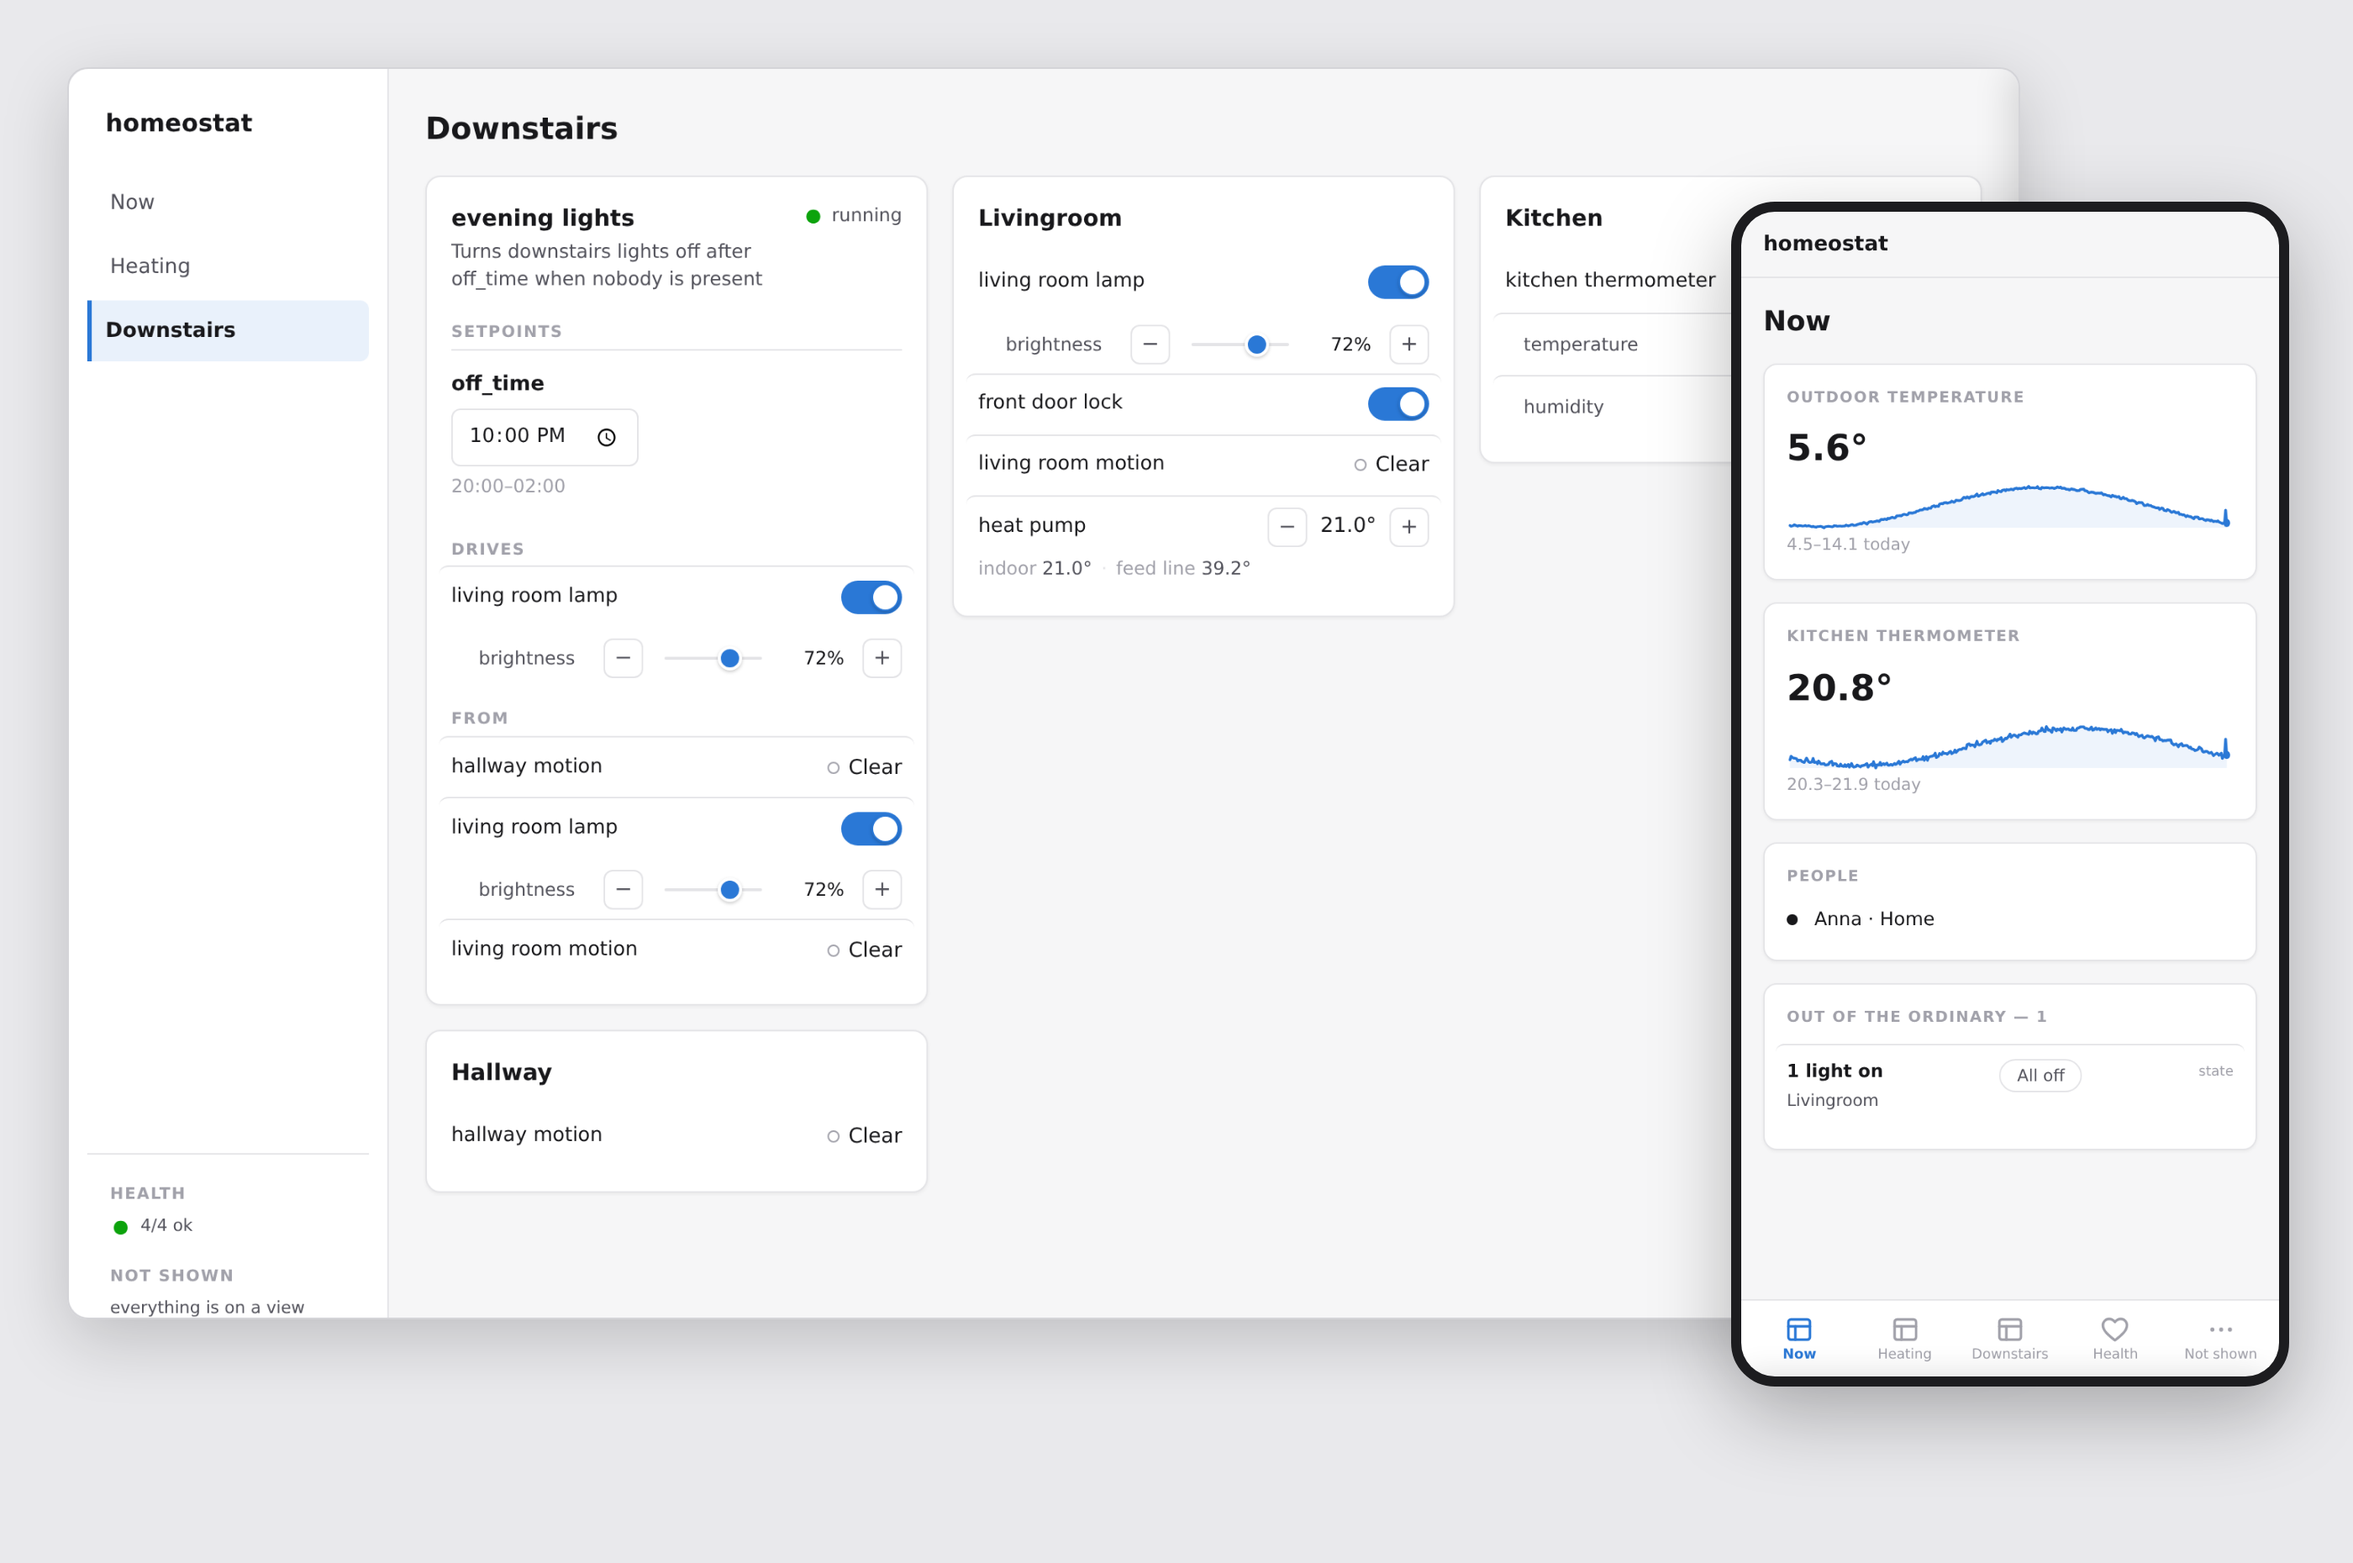
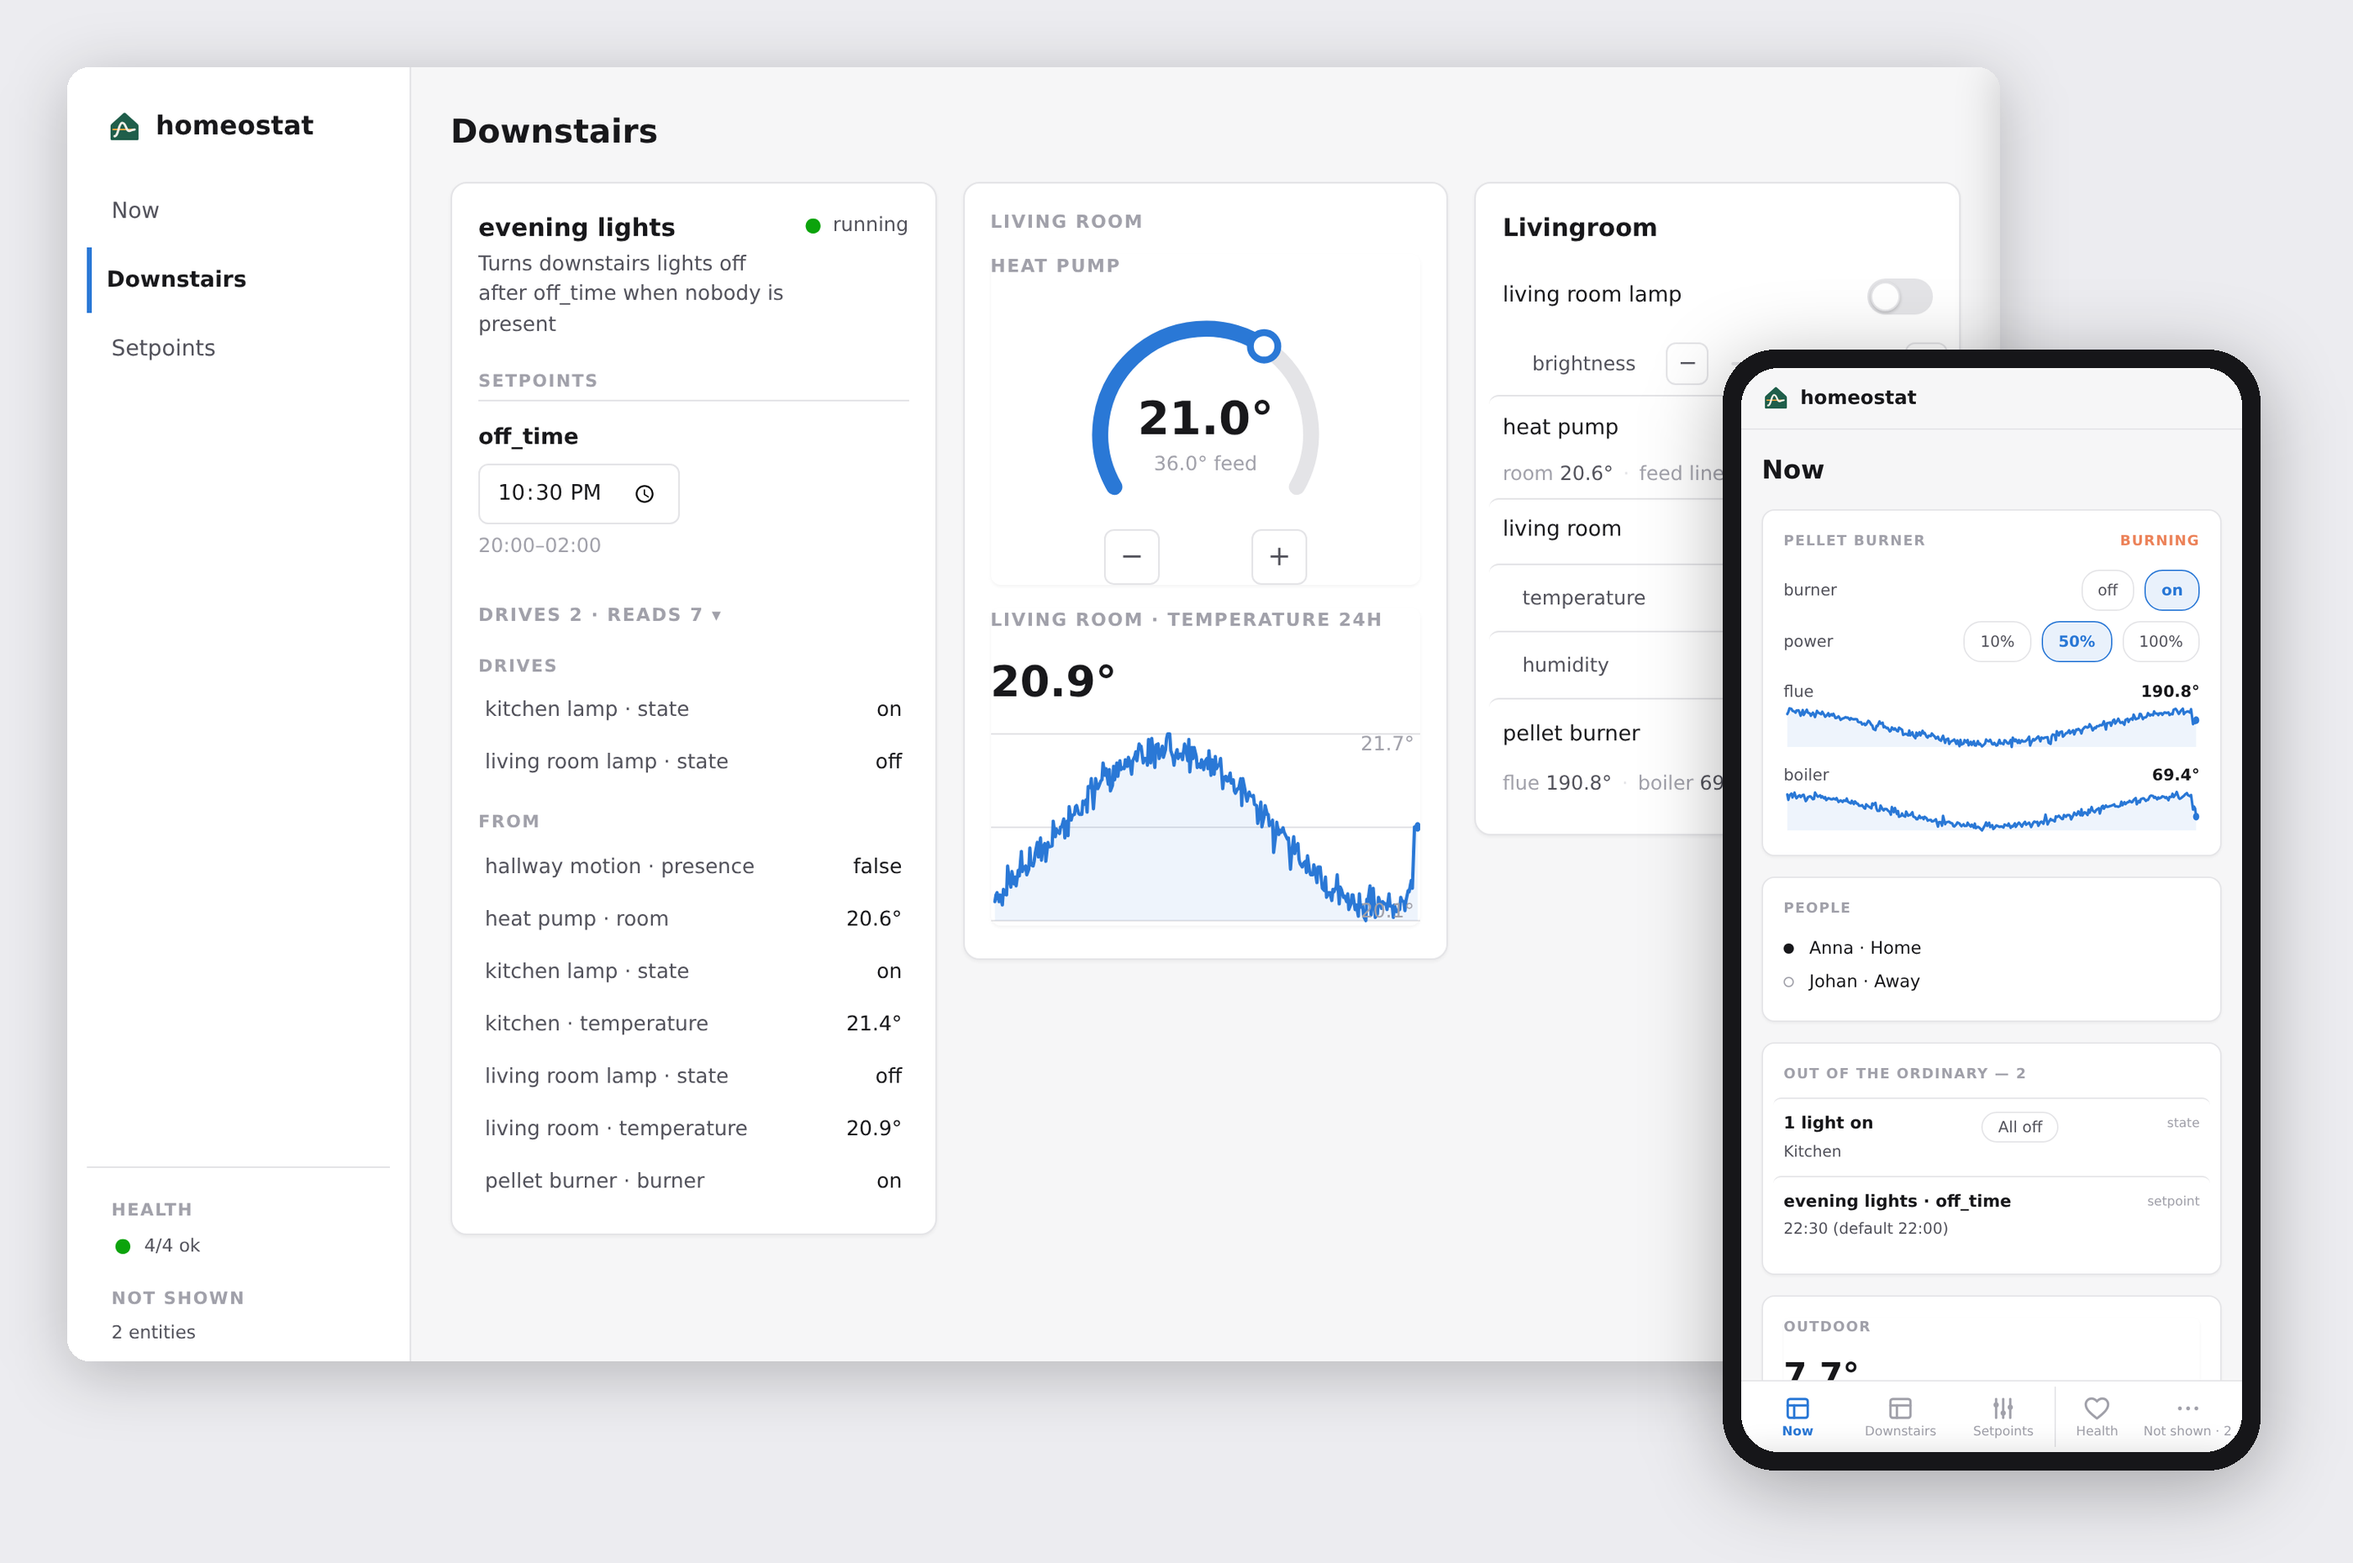
README: a screenshot of the dashboard as it is now
Taken from the real stack again — supervisor, recorder with a day of
seeded history, the dashboard unit — on a staged house that exercises
what the four follow-ups added: the mark in the rail and the phone's top
bar, a group card (a heat-pump dial with the room's trace under it), the
burner card, and the evening-lights unit card with its wiring opened out
one row per field.

The shot showed a bug, fixed here: a tile whose entity has more than one
reading built its label with `&middot;` and then upper-cased the whole
string, and `&MIDDOT;` is not an entity — it read literally on the card.
The separator is the character now.

Claude-Session: https://claude.ai/code/session_01JwUphsi6xWzHh2QLnyPZgL

diff --git a/adapters/dashboard.html b/adapters/dashboard.html
@@ -1502,7 +1502,9 @@ function widgetTiles(entity, aspect) {
     var s = localState.sparklines[sk];
     var spark = s && s.loaded ? buildChart('tile-' + sk, s.points, { height: 36, sizeClass: 'chart-tile', aspect: r.aspect, area: true, window: s.window }) : '';
     var caption = s && s.loaded ? minMaxCaption(s.points) : '';
-    var tileLabel = esc(entity.label) + (rows.length > 1 ? ' &middot; ' + esc(r.label) : '');
+    // The separator is the character, not the entity: the whole label is
+    // upper-cased below, and "&MIDDOT;" is not one.
+    var tileLabel = esc(entity.label) + (rows.length > 1 ? ' \u00b7 ' + esc(r.label) : '');
     return '<div class="card tile clickable" data-action="history-detail" data-room="' + esc(entity.room) + '" data-entity="' + esc(entity.name) + '" data-aspect="' + esc(r.aspect) + '">' +
       '<div class="card-label" title="' + esc(entity.label) + '">' + tileLabel.toUpperCase() + '</div>' +
       '<div class="big' + (r.stale ? ' stale' : '') + '">' + esc(r.display) + '</div>' + spark +

diff --git a/README.md b/README.md
@@ -346,11 +346,12 @@ reachable from a browser). The map over person entities (OwnTracks,
 self-hosted tiles) is settled design, not yet built. Details:
 [design record §Dashboard](docs/design.md#dashboard-settled-2026-07-15).
 
-![The dashboard on a desktop and a phone: a "Downstairs" view composed in dashboard.toml — the evening-lights automation's card with its setpoint, the lamp it drives and the sensors it reads, beside the room cards — and the phone's "Now" with signal tiles, people and the deviations feed](docs/screenshots/dashboard.png)
+![The dashboard on a desktop and a phone: a "Downstairs" view composed in dashboard.toml — the evening-lights automation's card with its setpoint and its wiring opened out field by field, a heat-pump dial grouped with the room's temperature trace, and the room card — and the phone's "Now" with the burner card, people and the deviations feed](docs/screenshots/dashboard.png)
 
 *Every pixel above is generated from the house's text: the views from
 `dashboard.toml`, the cards from manifests and entity files, the
-automation's Drives/From from the grant table and its subscriptions.*
+automation's Drives/From — one row per field — from the grant table and
+its subscriptions.*
 
 ## Status
 
